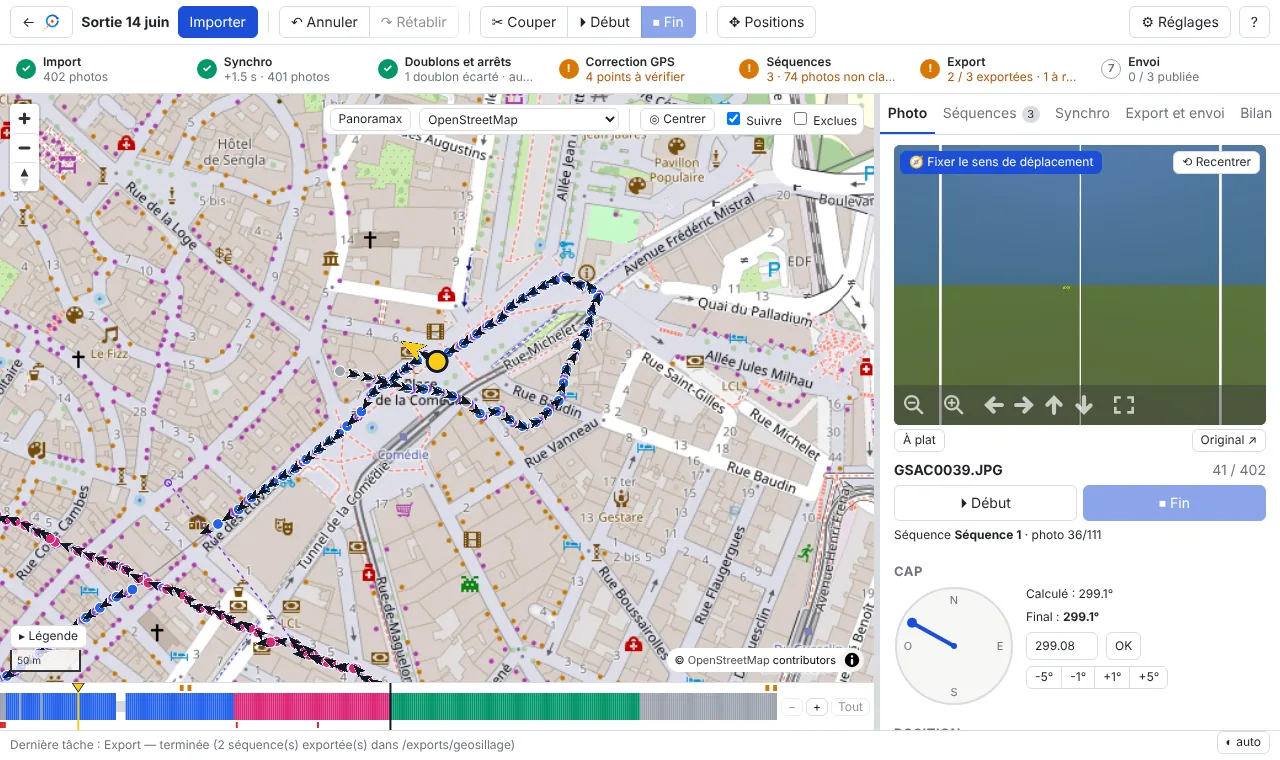
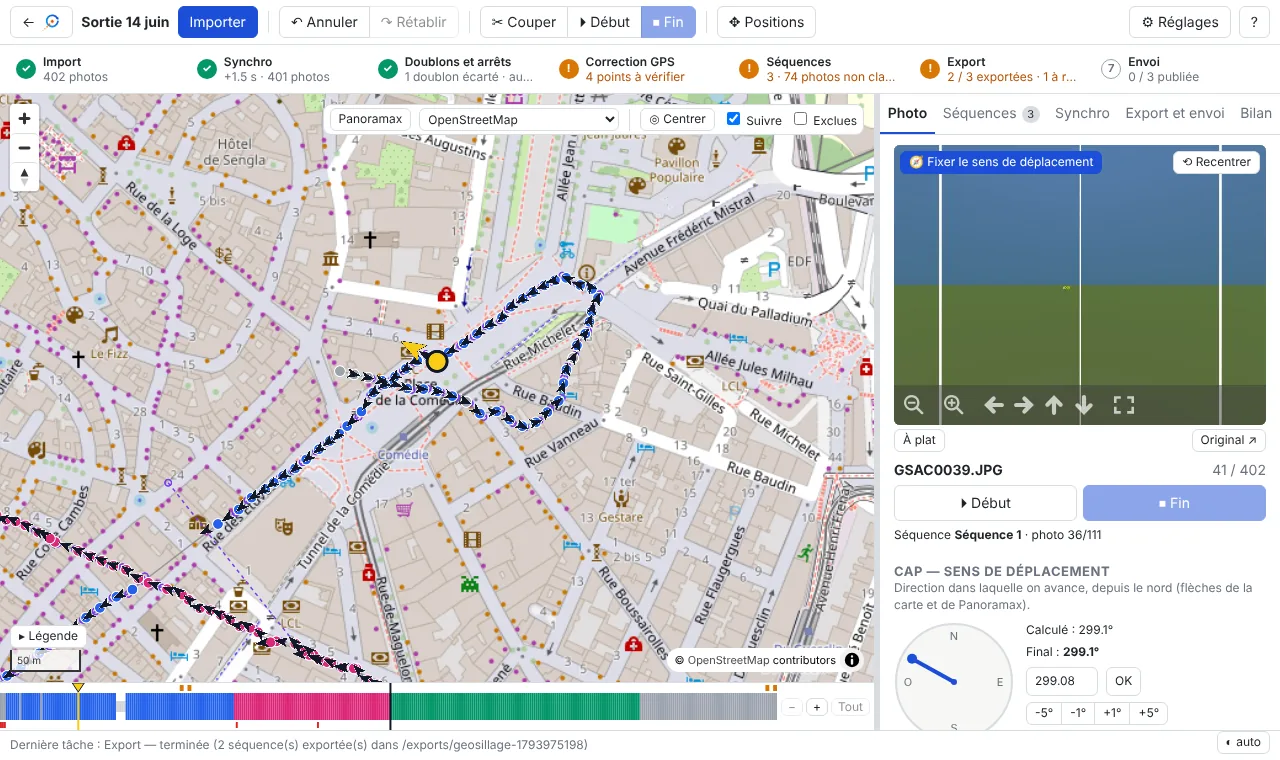
Interface : distinguer clairement cap et orientation (#12)
- Onglet Photo : section « Cap — sens de déplacement » et nouvelle section
  « Orientation de la caméra » (schéma vu de dessus cap / centre de l'image,
  écart en clair, comment corriger, « Remettre à 0° »).
- Textes d'aide unifiés (CapOrientation.tsx), libellés du menu contextuel,
  des boîtes de saisie, de la sortie entière et du bouton de la visionneuse.
- Guide § 7 mis à jour, captures 02, 07 et 10 régénérées.

Claude-Session: https://claude.ai/code/session_01UxooiVhdVeQwoswzGWUzwV

Changed region(s): [[0.6875, 0.7263, 0.9688, 0.9382], [0.4062, 0.9684, 0.4688, 0.9987]]

diff --git a/frontend/src/ProjectView.tsx b/frontend/src/ProjectView.tsx
@@ -25,6 +25,7 @@ import Viewer360 from './Viewer360'
 import ContextMenu, { MenuItem } from './ContextMenu'
 import OsmSnapPanel, { SnapPreview, SnapScope } from './OsmSnapPanel'
 import YawRotate from './YawRotate'
+import { CAP_HELP, CapOrientationDiagram, ORIENTATION_HELP } from './CapOrientation'
 
 const JOB_LABELS: Record<string, string> = {
   import: 'Import',
@@ -74,12 +75,12 @@ function RideHeadings({ projectId, onDone, onError }: { projectId: string; onDon
   const [value, setValue] = useState('0')
   return (
     <div className="small-text ride-headings">
-      <h3>Caps et orientation de toute la sortie</h3>
+      <h3>Cap et orientation de toute la sortie</h3>
       <p className="muted">
         Pour une série de photos : sélectionnez-la (timeline, Maj+clic) puis clic droit, ou les outils de la plage de l'onglet Photo.
       </p>
       <div className="form-row">
-        <span title="Ajouté aux caps calculés de toutes les photos (remplace les décalages déjà posés ; 0 les retire) ; les caps manuels ne changent pas">
+        <span title={`${CAP_HELP} Le décalage s'ajoute aux caps calculés de toutes les photos (il remplace les décalages déjà posés ; 0 les retire) ; les caps manuels ne changent pas.`}>
           Décalage du cap
         </span>
         <span>
@@ -90,7 +91,7 @@ function RideHeadings({ projectId, onDone, onError }: { projectId: string; onDon
         </span>
       </div>
       <div className="form-row">
-        <span title="Caméra mal alignée sur le casque, ou à l'envers (180°) : angle ajouté à l'orientation de chaque photo">Orientation</span>
+        <span title={`${ORIENTATION_HELP} L'angle s'ajoute à l'orientation de chaque photo (180 : caméra à l'envers).`}>Orientation de la caméra</span>
         <YawRotate projectId={projectId} target={{ all: true }} what="toutes les photos du projet" onDone={onDone} onError={onError} />
       </div>
     </div>
@@ -278,7 +279,8 @@ function PhotoTab({ projectId, photo, count, sequences, range, seqButtons, onVie
         )}
       </div>
 
-      <h3>Cap</h3>
+      <h3 title={CAP_HELP}>Cap — sens de déplacement</h3>
+      <p className="small-text muted section-help">Direction dans laquelle on avance, depuis le nord (flèches de la carte et de Panoramax).</p>
       <div className="heading-box">
         <HeadingDial value={shown} computed={computedWithOffset} onChange={setDraft} onCommit={(v) => set(v)} />
         <div className="heading-info small-text">
@@ -286,12 +288,6 @@ function PhotoTab({ projectId, photo, count, sequences, range, seqButtons, onVie
             Calculé : {photo.heading_auto != null ? `${photo.heading_auto.toFixed(1)}°` : photo.heading_auto_state === 'uncertain' ? 'incertain (arrêt)' : 'impossible'}
             {photo.heading_offset ? ` ${photo.heading_offset > 0 ? '+' : ''}${photo.heading_offset}° (décalage)` : ''}
           </div>
-          {photo.yaw_offset != null && photo.yaw_offset !== 0 && (
-            <div title="Orientation de l'image (caméra sur casque, ou montée à l'envers) : écrite dans XMP-GPano:PoseHeadingDegrees, le JPEG n'est pas modifié">
-              Orientation : {photo.yaw_offset > 0 ? '+' : ''}
-              {photo.yaw_offset}° par rapport au sens de déplacement
-            </div>
-          )}
           <div>
             Final : <strong>{shown != null ? `${shown.toFixed(1)}°` : '—'}</strong>{' '}
             {photo.heading_manual != null &&
@@ -329,13 +325,39 @@ function PhotoTab({ projectId, photo, count, sequences, range, seqButtons, onVie
           )}
         </div>
       </div>
+      <h3 title={ORIENTATION_HELP}>Orientation de la caméra</h3>
+      <p className="small-text muted section-help">Où regarde le centre de l'image, par rapport au sens de déplacement (casque, caméra mal montée). Ne change pas le cap.</p>
+      <div className="orientation-box small-text">
+        <CapOrientationDiagram heading={shown} yaw={photo.yaw_offset} />
+        <div>
+          <div>
+            {photo.yaw_offset ? (
+              <>
+                Centre de l'image à <strong>{photo.yaw_offset > 0 ? '+' : ''}{photo.yaw_offset}°</strong> du sens de déplacement
+                {Math.abs(photo.yaw_offset) >= 170 ? ' (caméra à l\'envers)' : photo.yaw_offset > 0 ? ' (vers la droite)' : ' (vers la gauche)'}
+              </>
+            ) : (
+              <>Centre de l'image <strong>dans le sens de déplacement</strong> (0°)</>
+            )}
+          </div>
+          <div className="muted">
+            <span className="cap-key blue" /> cap · <span className="cap-key orange" /> centre de l'image
+          </div>
+          <div className="muted">Pour la corriger : tournez la vue vers l'avant puis « 🧭 Fixer le sens de déplacement » dans la visionneuse.</div>
+          {photo.yaw_offset ? (
+            <button className="small" onClick={() => api.setYaw(projectId, { photo_ids: [photo.id] }, null).then((r) => onChanged(r.undo), (e) => onError(e.message))}>
+              Remettre à 0°
+            </button>
+          ) : null}
+        </div>
+      </div>
       {range && (
         <section className="range-card small-text">
           <header>
             Plage {range[0] + 1} → {range[1] + 1} · {range[1] - range[0] + 1} photos
           </header>
           <div className="form-row">
-            <span>Caps</span>
+            <span title={CAP_HELP}>Cap</span>
             <span>
               <input className="num" type="number" step="0.5" value={rangeValue} onChange={(e) => setRangeValue(e.target.value)} aria-label="Angle (°)" />°
               <span className="btn-group">
@@ -358,7 +380,7 @@ function PhotoTab({ projectId, photo, count, sequences, range, seqButtons, onVie
             </span>
           </div>
           <div className="form-row">
-            <span>Orientation</span>
+            <span title={ORIENTATION_HELP}>Orientation</span>
             <YawRotate projectId={projectId} target={{ start_idx: range[0], end_idx: range[1] }} what="les photos de la plage" onDone={(u) => onChanged(u)} onError={onError} />
           </div>
         </section>
@@ -1150,8 +1172,8 @@ export default function ProjectView({ projectId, onBack }: { projectId: string; 
         label: r[0] === r[1] ? 'Recaler cette photo sur OpenStreetMap…' : `Recaler ces ${r[1] - r[0] + 1} photos sur OpenStreetMap…`,
         onClick: () => setSnapOpen({ scope: 'custom', sequenceId: inSeq, bounds: r }),
       },
-      { label: `Décalage du cap ${these}…`, onClick: () => setValueDlg({ kind: 'offset', range: r }) },
-      { label: `Orientation ${these}…`, onClick: () => setValueDlg({ kind: 'yaw', range: r }) },
+      { label: `Décalage du cap (sens de déplacement) ${these}…`, onClick: () => setValueDlg({ kind: 'offset', range: r }) },
+      { label: `Orientation de la caméra ${these}…`, onClick: () => setValueDlg({ kind: 'yaw', range: r }) },
     ]
     if (!isPnx && photos.slice(r[0], r[1] + 1).every((p) => p.sequence_id == null))
       items.push({
@@ -1626,15 +1648,15 @@ export default function ProjectView({ projectId, onBack }: { projectId: string; 
       )}
       {valueDlg && (
         <ValueDialog
-          title={`${valueDlg.kind === 'offset' ? 'Décalage du cap' : 'Orientation'} : photos ${valueDlg.range[0] + 1} → ${valueDlg.range[1] + 1}`}
-          label={valueDlg.kind === 'offset' ? 'Décalage ajouté aux caps calculés' : 'Angle ajouté à l\'orientation de chaque photo'}
+          title={`${valueDlg.kind === 'offset' ? 'Décalage du cap' : 'Orientation de la caméra'} : photos ${valueDlg.range[0] + 1} → ${valueDlg.range[1] + 1}`}
+          label={valueDlg.kind === 'offset' ? 'Décalage ajouté aux caps calculés (sens de déplacement)' : 'Angle ajouté à l\'orientation de chaque photo (centre de l\'image)'}
           initial={valueDlg.kind === 'offset' ? '0' : '180'}
           unit="°"
           applyLabel="Appliquer"
           help={
             valueDlg.kind === 'offset'
-              ? 'Remplace le décalage déjà posé sur ces photos ; 0 le retire. Les caps manuels ne changent pas. Ctrl+Z annule.'
-              : 'Caméra mal alignée sur le casque, ou à l\'envers (180°). Le fichier JPEG n\'est pas tourné. Ctrl+Z annule.'
+              ? 'Le cap est la direction dans laquelle on avance (flèches de navigation). Remplace le décalage déjà posé sur ces photos ; 0 le retire. Les caps manuels ne changent pas. L\'orientation de la caméra ne change pas. Ctrl+Z annule.'
+              : 'L\'orientation est l\'angle entre le centre de l\'image et le sens de déplacement : caméra mal alignée sur le casque, ou à l\'envers (180°). Le cap ne change pas ; le fichier JPEG n\'est pas tourné. Ctrl+Z annule.'
           }
           onCancel={() => setValueDlg(null)}
           onApply={(v) => {

diff --git a/frontend/src/CapOrientation.tsx b/frontend/src/CapOrientation.tsx
@@ -1,0 +1,35 @@
+// Heading versus orientation, shown side by side so they are not confused:
+// - heading (cap): direction of travel, from north (GPSImgDirection) — Panoramax: navigation arrows, map;
+// - orientation: where the centre of the image looks, from the direction of travel (XMP PoseHeadingDegrees) —
+//   Panoramax: the photo opens facing forward. Changing one never changes the other.
+export const CAP_HELP =
+  'Cap = sens de déplacement, mesuré depuis le nord (0° nord, 90° est). Écrit dans GPSImgDirection ; Panoramax s\'en sert pour les flèches de navigation et la carte.'
+export const ORIENTATION_HELP =
+  'Orientation = angle entre le centre de l\'image et le sens de déplacement (caméra sur casque, mal alignée ou à l\'envers). Écrite dans PoseHeadingDegrees ; Panoramax s\'en sert pour ouvrir la photo face à l\'avant. Elle ne change pas le cap.'
+
+// Small top view: north, the heading (blue) and where the centre of the image looks (orange)
+export function CapOrientationDiagram({ heading, yaw }: { heading: number | null; yaw: number | null }) {
+  const r = 30
+  const at = (deg: number, len: number) => {
+    const a = ((deg - 90) * Math.PI) / 180
+    return [32 + Math.cos(a) * len, 32 + Math.sin(a) * len]
+  }
+  const h = heading ?? 0
+  const [hx, hy] = at(h, r)
+  const [cx, cy] = at(h + (yaw ?? 0), r)
+  return (
+    <svg className="cap-diagram" width="80" height="80" viewBox="0 0 64 64" role="img" aria-label="Cap et orientation, vue de dessus">
+      <circle cx="32" cy="32" r="31" fill="none" stroke="currentColor" strokeOpacity="0.25" />
+      <text x="32" y="8" textAnchor="middle" fontSize="8" fill="currentColor" opacity="0.6">
+        N
+      </text>
+      {heading != null && <line x1="32" y1="32" x2={hx} y2={hy} stroke="#1d4ed8" strokeWidth="3" markerEnd="url(#cap-arrow)" />}
+      {heading != null && yaw ? <line x1="32" y1="32" x2={cx} y2={cy} stroke="#ea580c" strokeWidth="2.5" strokeDasharray="3 2" /> : null}
+      <defs>
+        <marker id="cap-arrow" viewBox="0 0 6 6" refX="3" refY="3" markerWidth="4" markerHeight="4" orient="auto">
+          <path d="M0,0 L6,3 L0,6 z" fill="#1d4ed8" />
+        </marker>
+      </defs>
+    </svg>
+  )
+}

diff --git a/tools/captures.js b/tools/captures.js
@@ -65,7 +65,7 @@ const OUT = process.argv[2], BASE = process.argv[3] || 'http://127.0.0.1:8767/';
   // Panoramax overlay (real data from the meta-catalogue)
   await p.selectOption('select[aria-label="Fond de carte"]', 'osm'); await wait(800);
   await go(250); await p.click('button:has-text("Panoramax")'); await wait();
-  await p.click('.map-legend button'); await wait(300); // legend open: age classes of the coverage
+  await p.click('.map-legend button'); await wait(300); await tiles(); // legend open: age classes of the coverage
   await p.evaluate(() => window.__pssMap.jumpTo({ zoom: 16.5 })); await tiles(); await wait(2500);
   const pt = await p.evaluate(() => { const m = window.__pssMap; const fs = m.queryRenderedFeatures({ layers: ['pnx-pictures'] }); const r = m.getContainer().getBoundingClientRect();
     const f = fs.find(f => { const c = m.project(f.geometry.coordinates); return c.x > 360 && c.x < r.width - 150 && c.y > 150 && c.y < r.height - 150 }); if (!f) return null; const c = m.project(f.geometry.coordinates); return [c.x + r.left, c.y + r.top] });

diff --git a/frontend/src/styles.css b/frontend/src/styles.css
@@ -1475,3 +1475,37 @@ a.button-link:hover {
 .sync-runs .row {
   align-items: center;
 }
+
+/* Photo tab: heading (direction of travel) and orientation of the camera, side by side */
+.section-help {
+  margin: -6px 0 8px;
+}
+.orientation-box {
+  display: flex;
+  gap: 12px;
+  align-items: flex-start;
+}
+.orientation-box > div {
+  display: flex;
+  flex-direction: column;
+  gap: 4px;
+}
+.orientation-box button {
+  align-self: flex-start;
+}
+.cap-diagram {
+  flex: none;
+  color: var(--text);
+}
+.cap-key {
+  display: inline-block;
+  width: 14px;
+  height: 3px;
+  vertical-align: middle;
+}
+.cap-key.blue {
+  background: #1d4ed8;
+}
+.cap-key.orange {
+  background: repeating-linear-gradient(90deg, #ea580c 0 3px, transparent 3px 5px);
+}

diff --git a/frontend/src/Viewer360.tsx b/frontend/src/Viewer360.tsx
@@ -135,7 +135,7 @@ function Sphere({ thumbUrl, imageUrl, height, yaw, pitch, roll, onFixYaw, onRese
       </button>
       {onFixYaw && (
         <div className="viewer360-fix">
-          <button className="small primary" onClick={fix} title="Tournez la vue vers l'avant, dans le sens de déplacement, puis cliquez (caméra sur casque ou mal orientée)">
+          <button className="small primary" onClick={fix} title="Règle l'orientation de la caméra : tournez la vue vers l'avant (le sens de déplacement), puis cliquez. Le cap ne change pas.">
             🧭 {fixLabel ?? 'Fixer le sens de déplacement'}
           </button>
           {yaw != null && yaw !== 0 && onResetYaw && (

diff --git a/doc/GUIDE_UTILISATEUR.md b/doc/GUIDE_UTILISATEUR.md
@@ -344,11 +344,17 @@ Deux notions distinctes :
 - l'**orientation** = l'angle entre le **centre de l'image** et le sens de déplacement (XMP `PoseHeadingDegrees`).
   Elle vaut 0 quand la caméra regarde vers l'avant ; Panoramax s'en sert pour tourner la photo 360°.
 
+Changer l'un ne change jamais l'autre. L'onglet *Photo* les présente en deux sections : **Cap — sens de
+déplacement** (cadran, cap calculé et final) et **Orientation de la caméra**, avec un petit schéma vu de dessus :
+le cap en bleu (depuis le nord), le centre de l'image en orange pointillé (décalé de l'orientation), et une phrase
+comme « Centre de l'image à −35° du sens de déplacement (vers la gauche) ». *Remettre à 0°* annule l'orientation de
+la photo.
+
 ### Vérifier les caps
 
 Flèches sur la carte (zoom ≥ 15). Onglet *Photo* : cadran, `[` / `]` (±1°, Maj : ±5°), saisie d'un cap manuel, *Revenir au cap calculé*.
-**Décalage du cap** (ajouté aux caps calculés) : sur **toute la sortie** (onglet *Bilan*, *Caps et orientation de
-toute la sortie*) ou sur **une série de photos** (sélectionnée sur la timeline, puis clic droit *Décalage du cap…*, ou
+**Décalage du cap** (ajouté aux caps calculés) : sur **toute la sortie** (onglet *Bilan*, *Cap et orientation de
+toute la sortie*) ou sur **une série de photos** (sélectionnée sur la timeline, puis clic droit *Décalage du cap (sens de déplacement)…*, ou
 *Décaler* dans les outils de la plage de l'onglet *Photo*). La valeur remplace le décalage déjà posé sur ces
 photos ; 0 le retire. Ce réglage ne dépend pas des séquences, qui ne sont qu'un découpage. Sur une plage, aussi
 *Fixer* (même cap manuel pour toutes) et *Caps calculés*. Les caps manuels ne sont jamais écrasés ; un cap manuel voisin d'une position corrigée est marqué
@@ -367,8 +373,8 @@ l'application comme sur Panoramax).
 ### Caméra mal orientée sur le casque, ou à l'envers
 
 Champ d'angle et bouton **↻ Corriger le montage** :
-- sur toutes les photos de la sortie (onglet *Bilan*, *Caps et orientation de toute la sortie*) ;
-- sur une série de photos sélectionnée : clic droit *Orientation…*, ou outils de la plage de l'onglet *Photo*.
+- sur toutes les photos de la sortie (onglet *Bilan*, *Cap et orientation de toute la sortie*) ;
+- sur une série de photos sélectionnée : clic droit *Orientation de la caméra…*, ou outils de la plage de l'onglet *Photo*.
 
 Comme le décalage du cap, l'orientation ne dépend pas des séquences.
 
